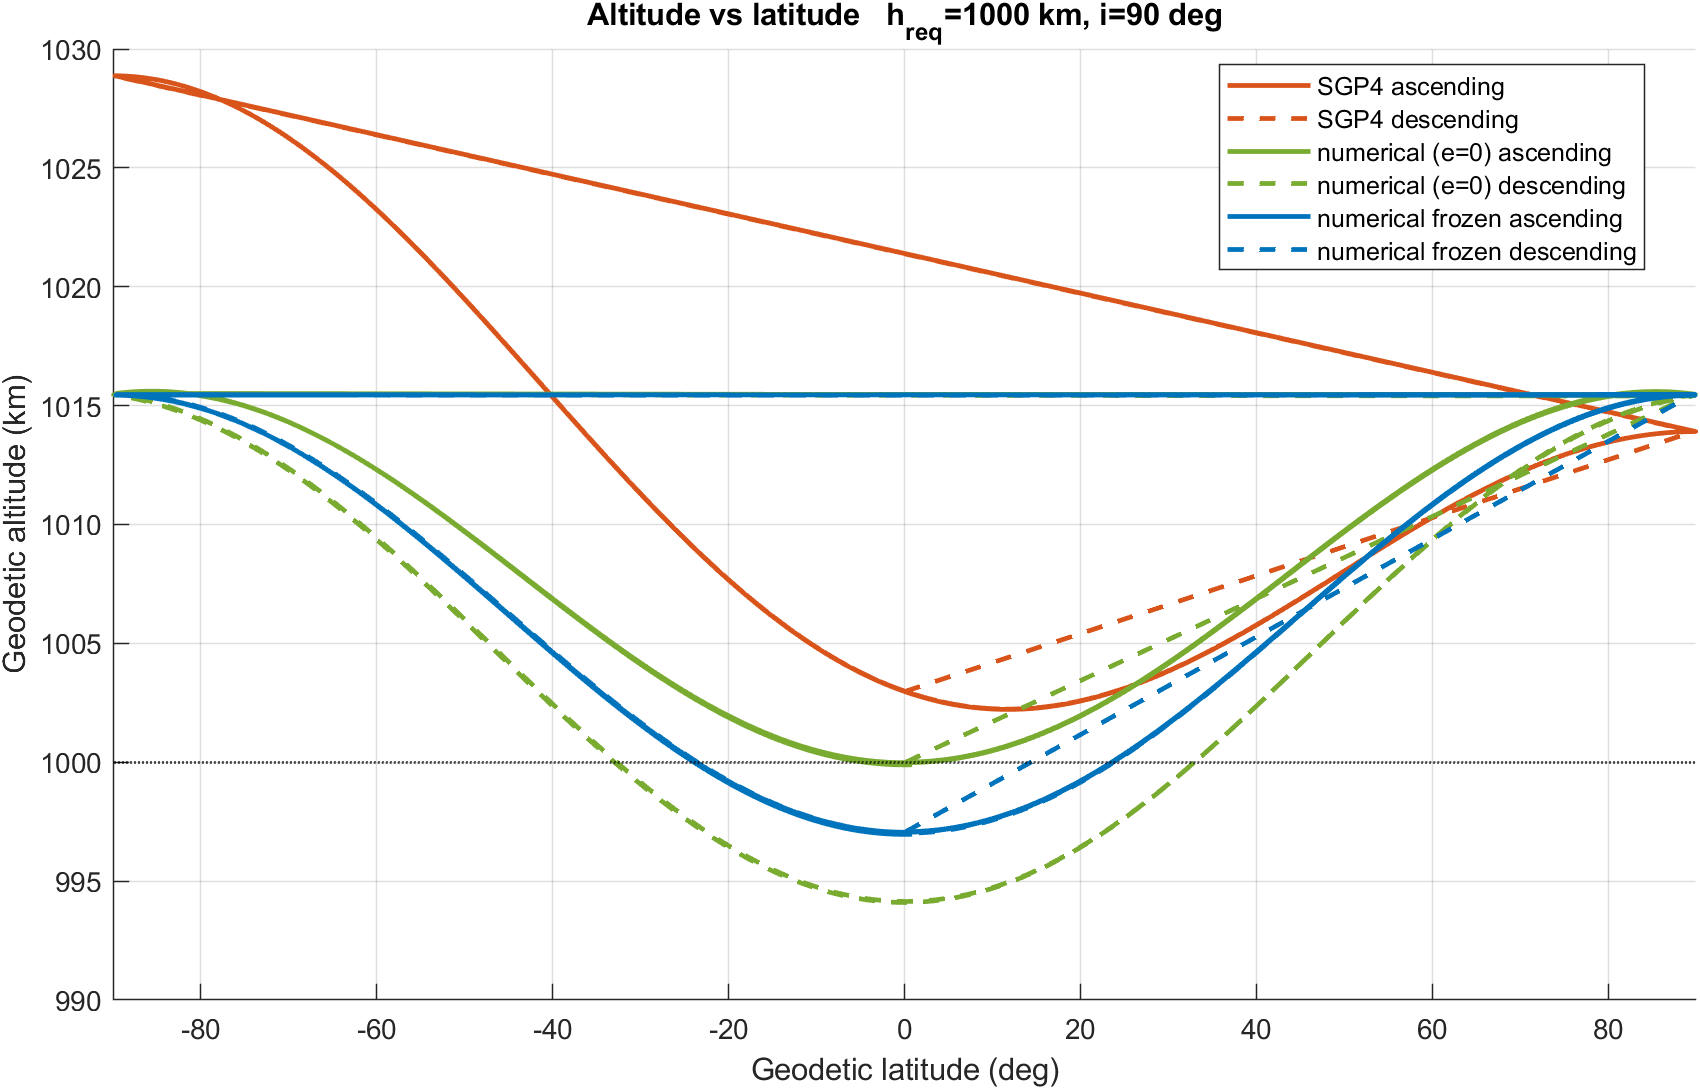
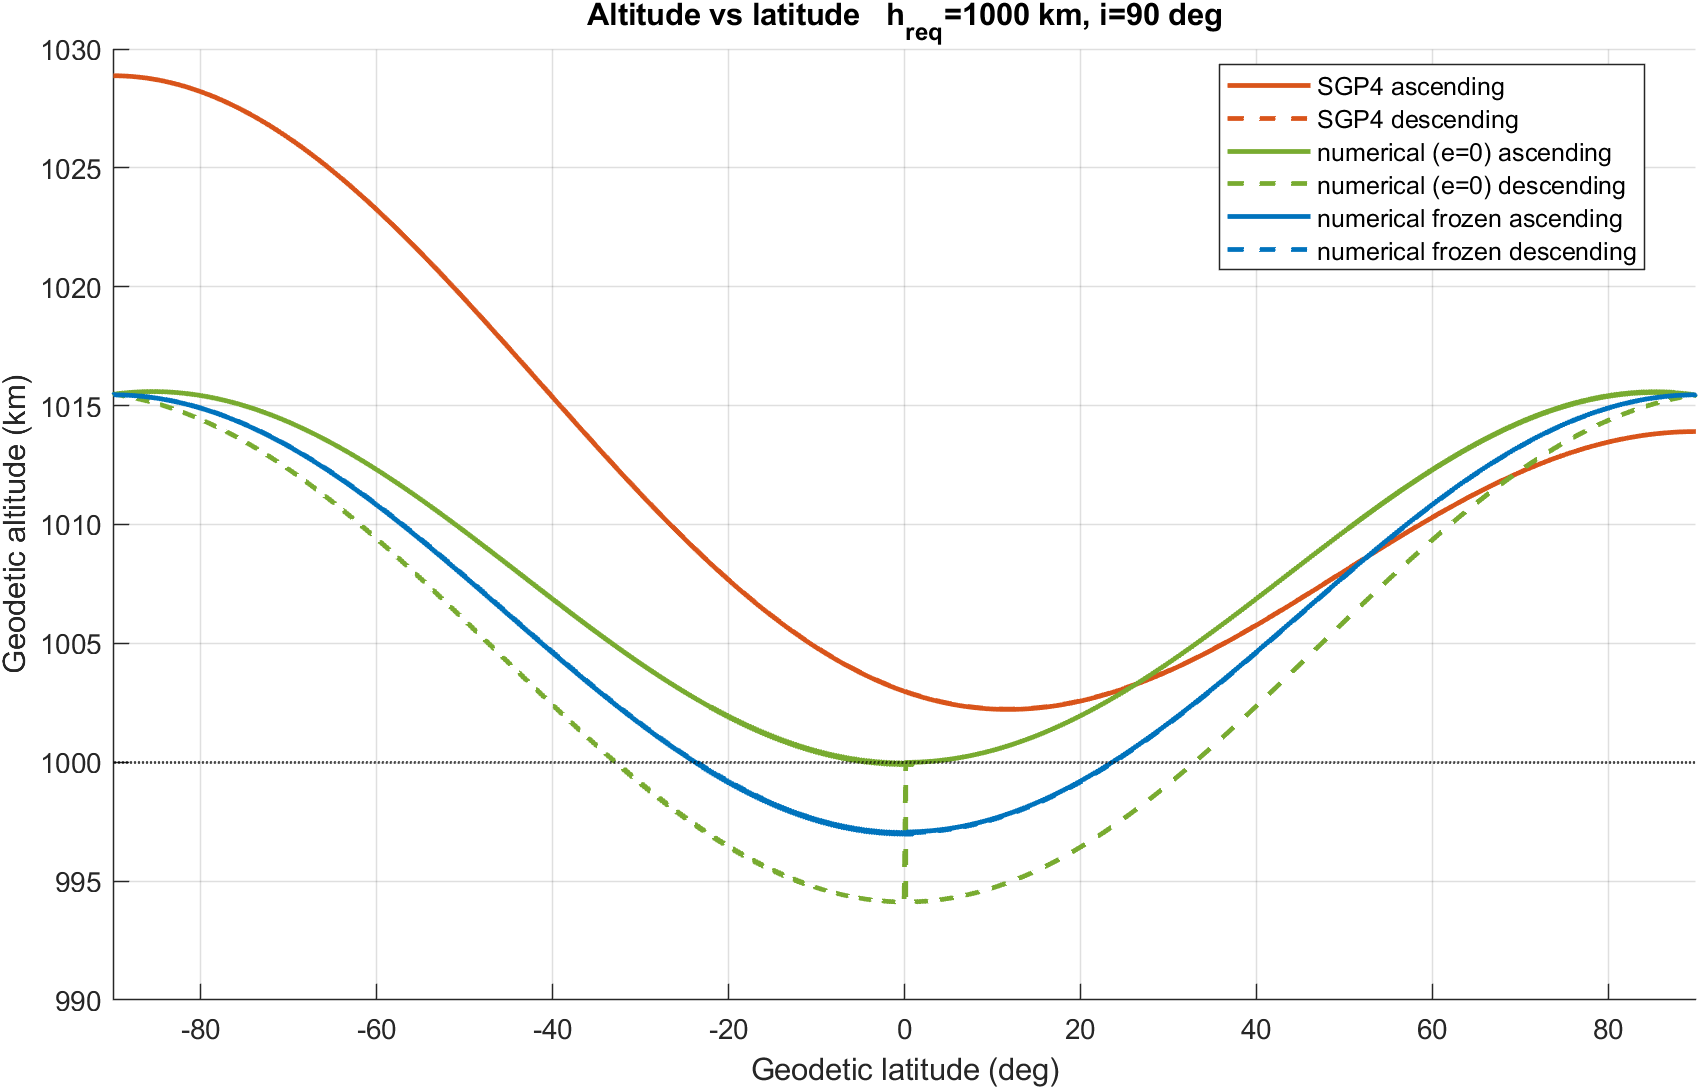
prettier plots

diff --git a/plotting_scripts/validate_satellite_initialization.m b/plotting_scripts/validate_satellite_initialization.m
@@ -149,9 +149,18 @@ end
 %% --------------------------------------------------------------------
 function plot_traces(s, col, name)
     asc = [false; diff(s.lat) >= 0];
-    plot(s.lat( asc), s.alt( asc), '-',  'Color',col, 'LineWidth',1.7, ...
+
+    % Sort by latitude before plotting so MATLAB connects points in spatial
+    % order, not time order.  Without this, the two polar regions (Q1 top
+    % and Q4 top) are connected by a long horizontal line that visually
+    % dominates the figure — especially when the orbit is symmetric and
+    % both poles have the same altitude.
+    [la, ia] = sort(s.lat( asc)); aa = s.alt( asc); aa = aa(ia);
+    [ld, id] = sort(s.lat(~asc)); ad = s.alt(~asc); ad = ad(id);
+
+    plot(la, aa, '-',  'Color',col, 'LineWidth',1.7, ...
         'DisplayName', sprintf('%s ascending',  name));
-    plot(s.lat(~asc), s.alt(~asc), '--', 'Color',col, 'LineWidth',1.7, ...
+    plot(ld, ad, '--', 'Color',col, 'LineWidth',1.7, ...
         'DisplayName', sprintf('%s descending', name));
 end
 
